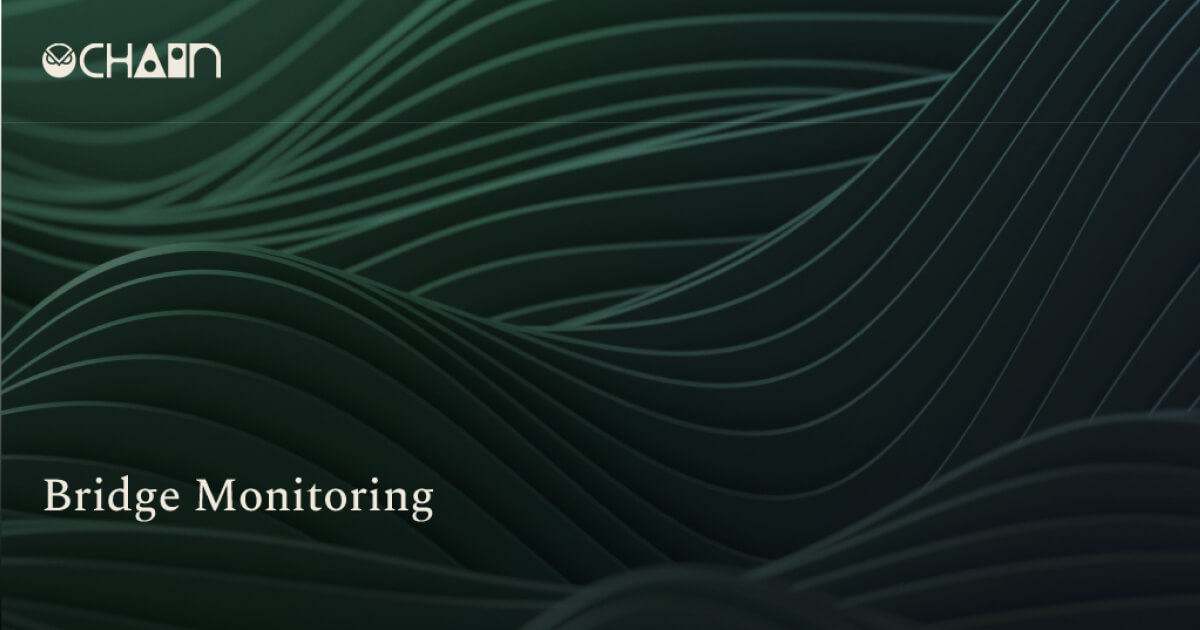
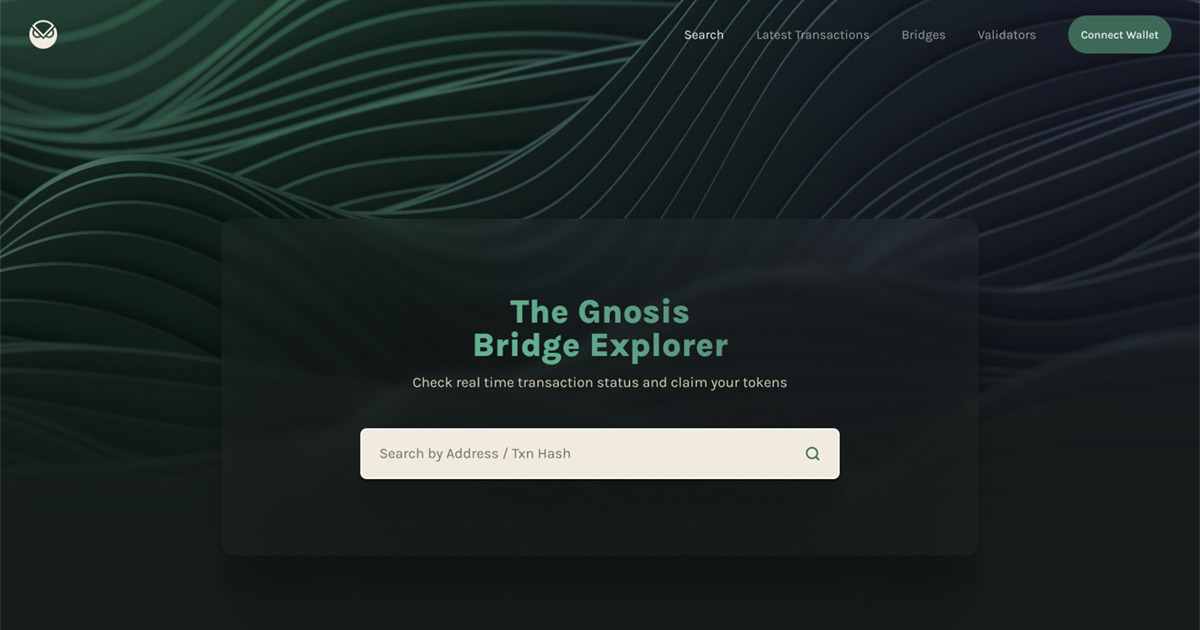
feat: update metadata (#574)
* fix: update preview image

* update: metatags

* remove: intl

diff --git a/app/pages/_app.tsx b/app/pages/_app.tsx
@@ -1,10 +1,8 @@
 import type { NextPage } from 'next'
-import type { AppContext, AppProps } from 'next/app'
+import type { AppProps } from 'next/app'
 import { useRouter } from 'next/router'
-import NextApp from 'next/app'
 import dynamic from 'next/dynamic'
 import { ReactElement, ReactNode, useEffect } from 'react'
-import { AbstractIntlMessages, NextIntlProvider } from 'next-intl'
 import { GoogleAnalytics } from 'nextjs-google-analytics'
 import { SWRConfig } from 'swr'
 import SafeSuspense from '@/src/components/helpers/SafeSuspense'
@@ -15,7 +13,6 @@ import Toast from '@/src/components/toast/Toast'
 import { Head } from '@/src/pagePartials/index/Head'
 import { TransactionNotificationProvider } from '@/src/providers/TransactionNotificationProvider'
 import ThemeProvider from '@/src/providers/themeProvider'
-import { intlErrorHandler } from '@/src/utils/intlErrorHandler'
 import TooltipConfig from '@/src/components/tooltip/TooltipConfig'
 import { ValidatorsProvider } from '@/src/providers/validatorsProvider'
 import { useRef } from 'react'
@@ -38,10 +35,9 @@ export type NextPageWithLayout = NextPage & {
 
 type AppPropsWithLayout = AppProps & {
   Component: NextPageWithLayout
-  messages?: AbstractIntlMessages
 }
 
-export default function App({ Component, messages, pageProps }: AppPropsWithLayout) {
+export default function App({ Component, pageProps }: AppPropsWithLayout) {
   // Black magic explained here https://nextjs.org/docs/basic-features/layouts
   const getLayout = Component.getLayout ?? ((page) => <Layout>{page}</Layout>)
   const router = useRouter()
@@ -99,42 +95,30 @@ export default function App({ Component, messages, pageProps }: AppPropsWithLayo
   return (
     <>
       <GoogleAnalytics />
-      <NextIntlProvider messages={messages} onError={intlErrorHandler}>
-        <Head />
-        <SWRConfig
-          value={{
-            suspense: true,
-            revalidateOnFocus: false,
-          }}
-        >
-          <Web3ConnectionProvider>
-            <ThemeProvider>
-              <SafeSuspense>
-                <TransactionNotificationProvider>
-                  <TokenListProvider>
-                    <Header />
-                    <ValidatorsProvider>
-                      {getLayout(<Component {...pageProps} />)}
-                    </ValidatorsProvider>
-                    <Footer />
-                    <Toast />
-                    <TooltipConfig />
-                  </TokenListProvider>
-                </TransactionNotificationProvider>
-              </SafeSuspense>
-            </ThemeProvider>
-          </Web3ConnectionProvider>
-        </SWRConfig>
-      </NextIntlProvider>
+
+      <Head />
+      <SWRConfig
+        value={{
+          suspense: true,
+          revalidateOnFocus: false,
+        }}
+      >
+        <Web3ConnectionProvider>
+          <ThemeProvider>
+            <SafeSuspense>
+              <TransactionNotificationProvider>
+                <TokenListProvider>
+                  <Header />
+                  <ValidatorsProvider>{getLayout(<Component {...pageProps} />)}</ValidatorsProvider>
+                  <Footer />
+                  <Toast />
+                  <TooltipConfig />
+                </TokenListProvider>
+              </TransactionNotificationProvider>
+            </SafeSuspense>
+          </ThemeProvider>
+        </Web3ConnectionProvider>
+      </SWRConfig>
     </>
   )
-}
-
-App.getInitialProps = async function getInitialProps(context: AppContext) {
-  const { locale } = context.router
-
-  return {
-    ...(await NextApp.getInitialProps(context)),
-    messages: locale ? (await import(`@/messages/${locale}.json`)).default : undefined,
-  }
 }

diff --git a/app/src/pagePartials/index/Head.tsx b/app/src/pagePartials/index/Head.tsx
@@ -1,18 +1,16 @@
 import NextHead from 'next/head'
 
-import { useTranslations } from 'next-intl'
-
 export const Head = () => {
-  const t = useTranslations('meta')
   const { hostname, port, protocol } =
     typeof window !== 'undefined'
       ? window.location
       : { hostname: 'localhost', port: 3000, protocol: 'http:' }
   const portString = port ? `:${port}` : ''
   const siteURL = typeof window !== 'undefined' ? `${protocol}//${hostname}${portString}` : ''
-  const title = t('title')
-  const description = t('description')
-  const twitterHandle = '@'
+  const title = 'Gnosis Bridge Explorer'
+  const description =
+    'Real-time tracking of xDAI and OmniBridge bridging transactions at your fingertips, integrated claiming functionality, tons of analytics regarding bridge transactions, bridge information on all Gnosis Chain bridges, and the state of bridge validators.'
+  const twitterHandle = '@gnosischain'
 
   return (
     <NextHead>
